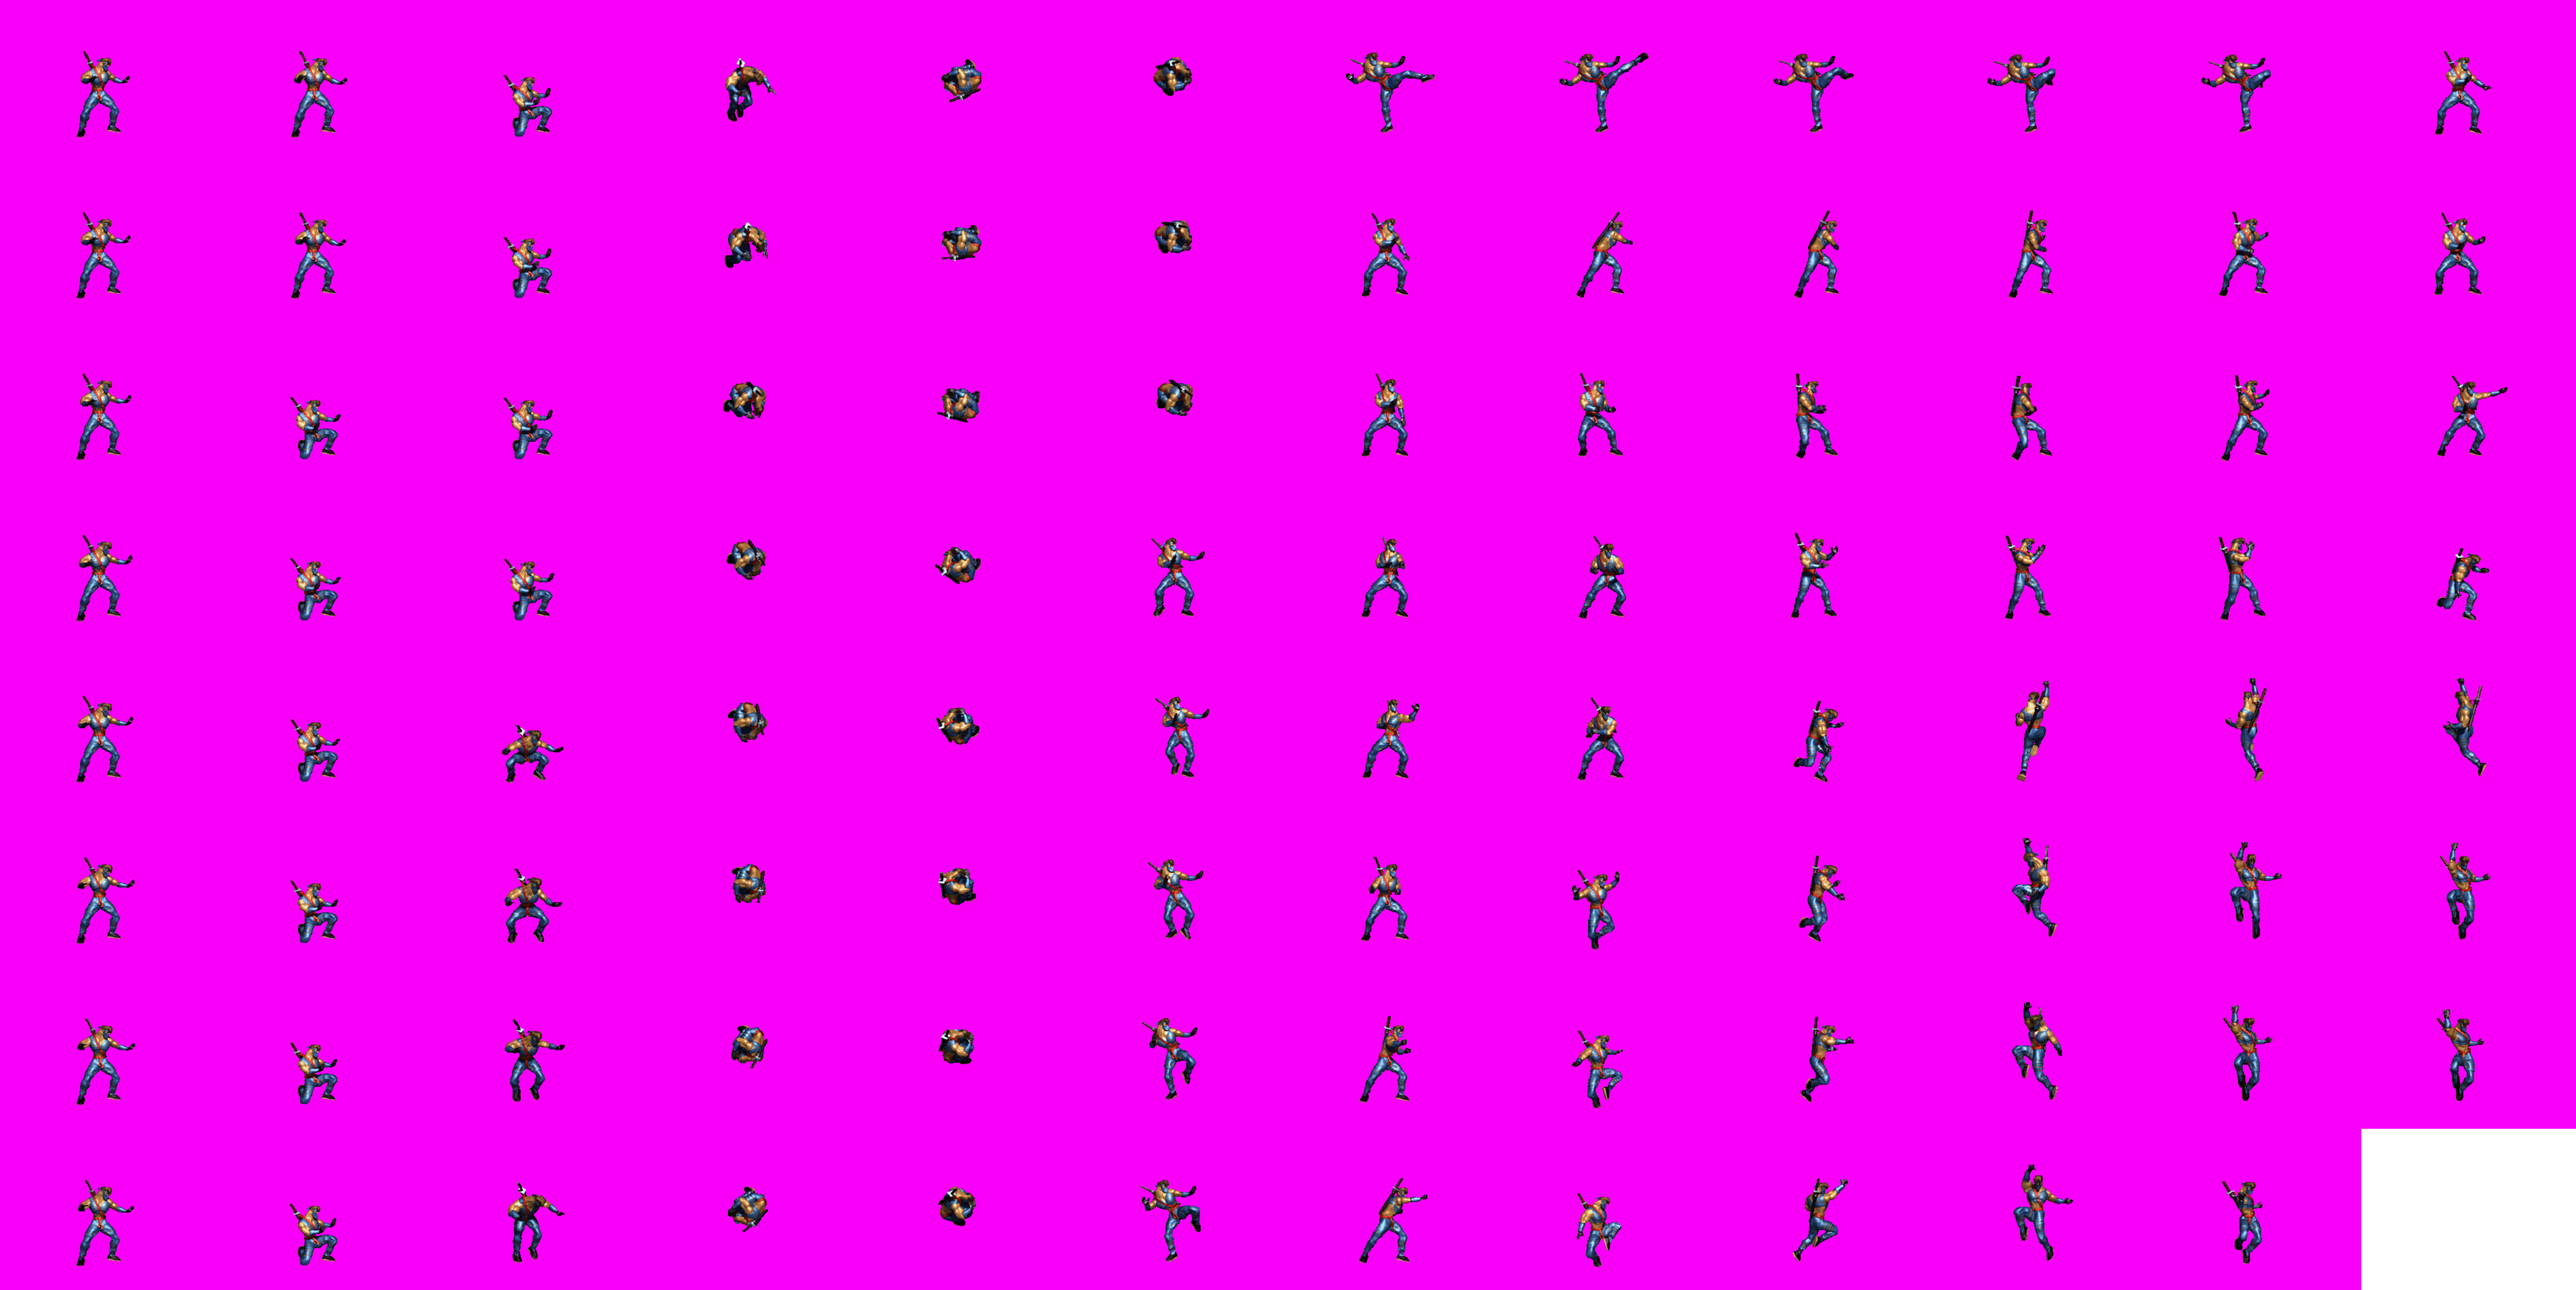
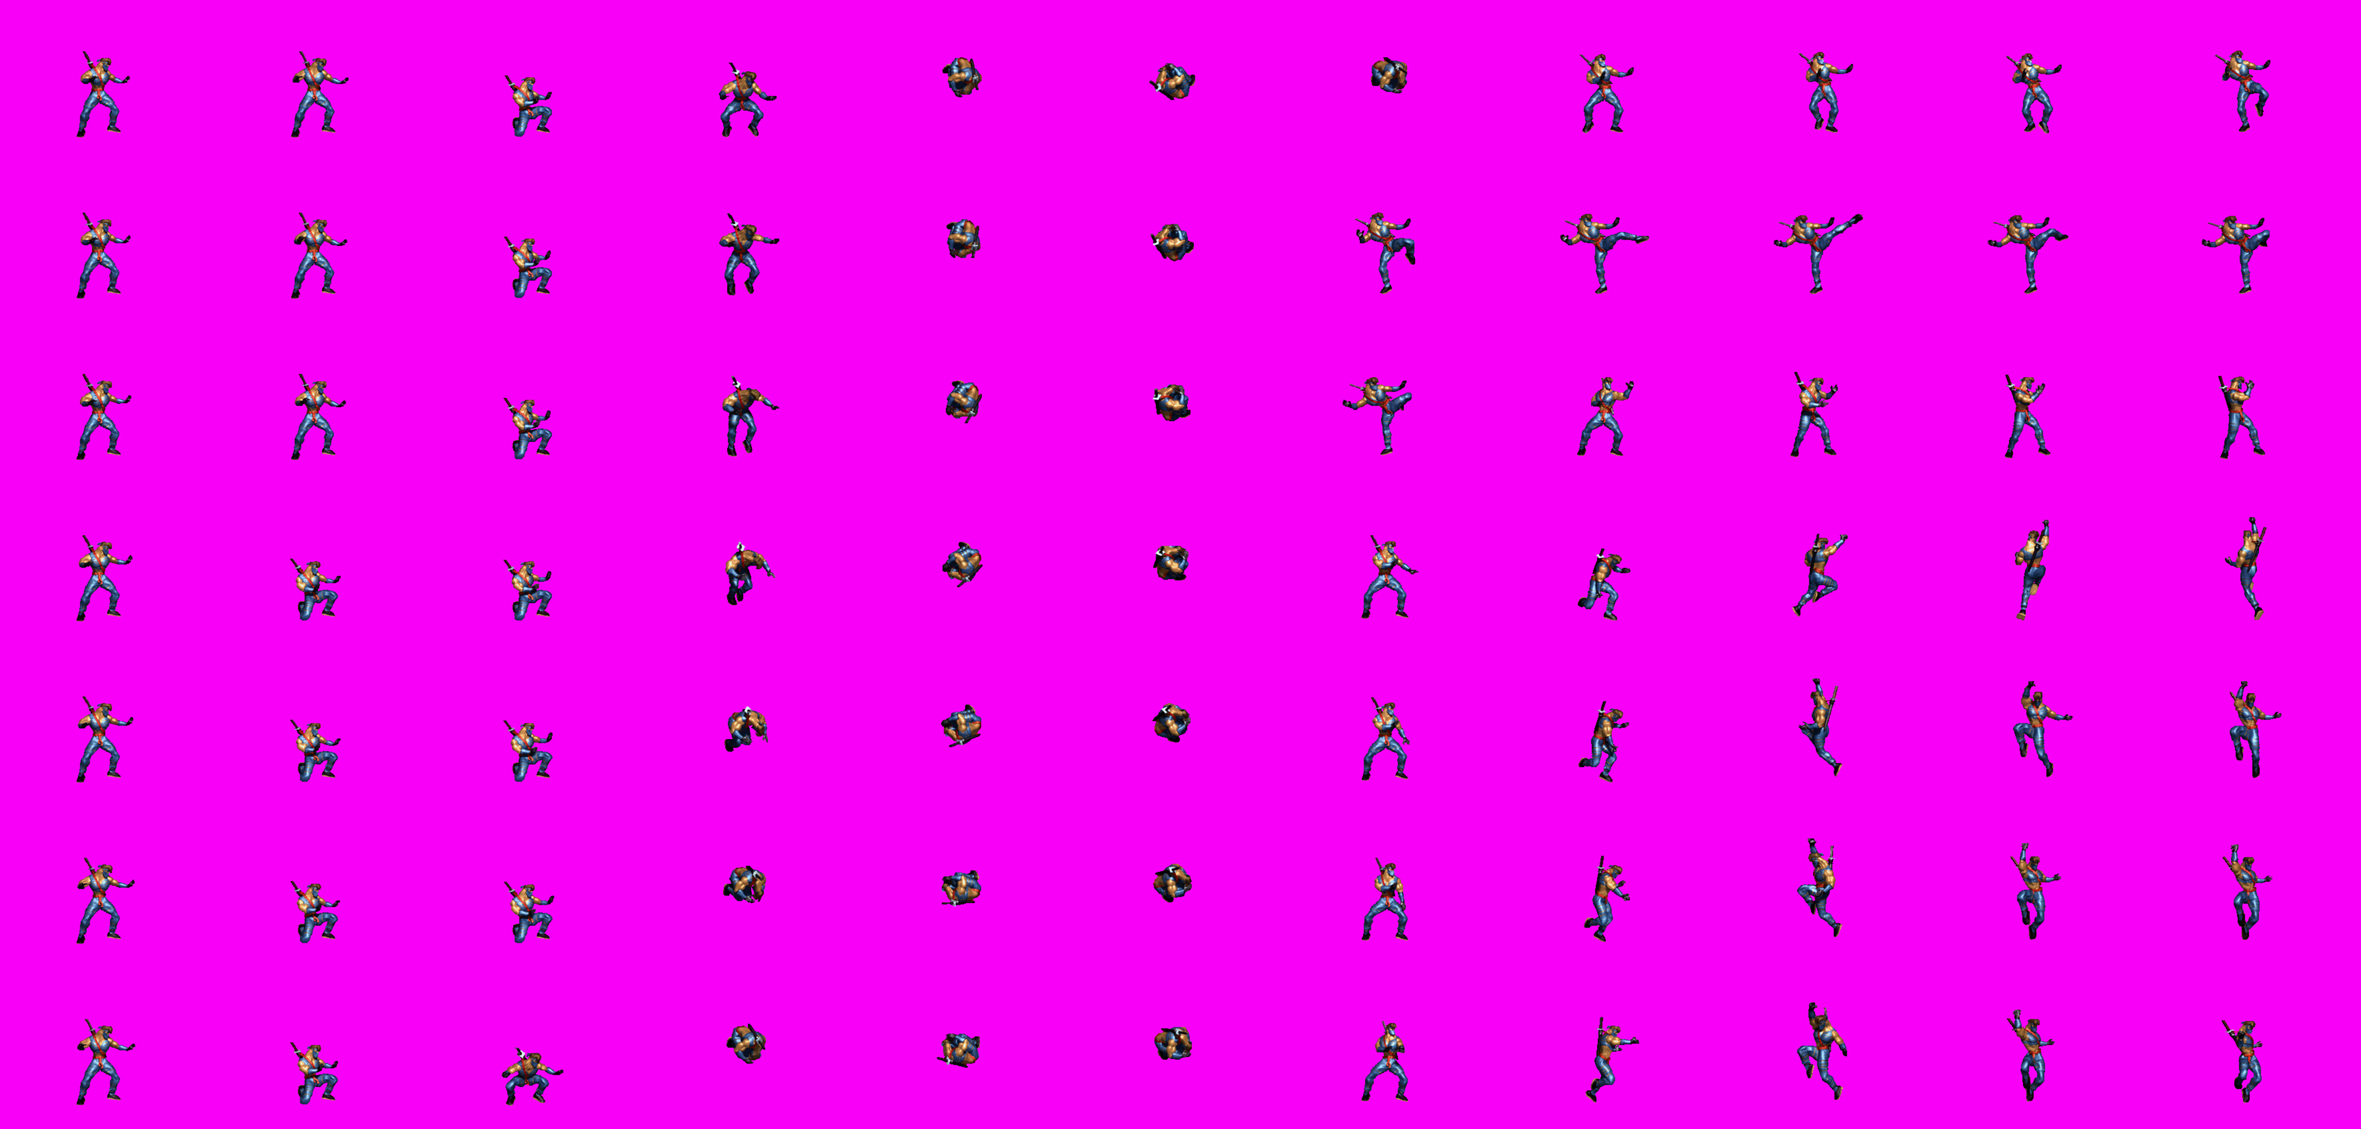
WORK JAGO

diff --git a/src/Game.ts b/src/Game.ts
@@ -176,30 +176,31 @@ class Game {
 
             // add(name, frames, frameRate, loop, useNumericIndex)
             this._playerSprite.animations.add('wait', Phaser.Animation.generateFrameNames('00', 0, 9, '', 2), 23, true, false);
-            this._opponentSprite.animations.add('wait', Phaser.Animation.generateFrameNames('00', 0, 9, '', 2), 23, true, false);
+            this._opponentSprite.animations.add('wait', Phaser.Animation.generateFrameNames('00', 0, 10, '', 2), 23, true, false);
 
             // jump: 28000
             this._playerSprite.animations.add('jump', Phaser.Animation.generateFrameNames('28', 0, 21, '', 3), 23, false, false);
-            this._opponentSprite.animations.add('jump', Phaser.Animation.generateFrameNames('28', 0, 21, '', 3), 23, false, false);
+            this._opponentSprite.animations.add('jump', Phaser.Animation.generateFrameNames('13', 0, 32, '', 3), 23, false, false);
 
             // punch
             this._playerSprite.animations.add('punch', Phaser.Animation.generateFrameNames('20', 0, 8, '', 2), 23, false, false);
+            this._opponentSprite.animations.add('punch', Phaser.Animation.generateFrameNames('20', 0, 8, '', 2), 23, false, false);
 
             // crouch: 11000
             this._playerSprite.animations.add('crouch', Phaser.Animation.generateFrameNames('11', 0, 5, '', 3), 23, false, false);
-            this._opponentSprite.animations.add('crouch', Phaser.Animation.generateFrameNames('11', 0, 5, '', 3), 23, false, false);
+            this._opponentSprite.animations.add('crouch', Phaser.Animation.generateFrameNames('10', 0, 10, '', 3), 23, false, false);
 
             // kick: 35000
             this._playerSprite.animations.add('kick', Phaser.Animation.generateFrameNames('35', 0, 17, '', 3), 23, false, false);
-            this._opponentSprite.animations.add('kick', Phaser.Animation.generateFrameNames('35', 0, 17, '', 3), 23, false, false);
+            this._opponentSprite.animations.add('kick', Phaser.Animation.generateFrameNames('17', 0, 19, '', 3), 23, false, false);
 
             // block: 192000
             this._playerSprite.animations.add('block', Phaser.Animation.generateFrameNames('192', 0, 6, '', 3), 23, false, false);
-            this._opponentSprite.animations.add('block', Phaser.Animation.generateFrameNames('192', 0, 6, '', 3), 23, false, false);
+            this._opponentSprite.animations.add('block', Phaser.Animation.generateFrameNames('59', 0, 6, '', 3), 23, false, false);
 
             // special: 67000
             this._playerSprite.animations.add('special', Phaser.Animation.generateFrameNames('67', 0, 31, '', 3), 23, false, false);
-            this._opponentSprite.animations.add('special', Phaser.Animation.generateFrameNames('67', 0, 31, '', 3), 23, false, false);
+            this._opponentSprite.animations.add('special', Phaser.Animation.generateFrameNames('67', 0, 16, '', 3), 23, false, false);
 
             this._playerSprite.events.onAnimationComplete.add(function(){
                 this._playerSprite.animations.play('wait');
